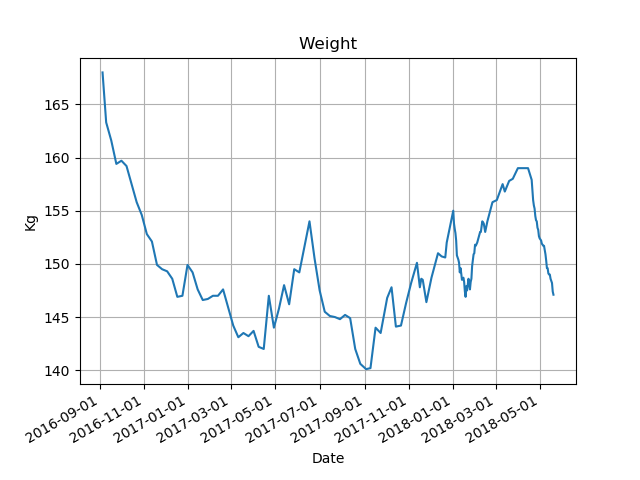
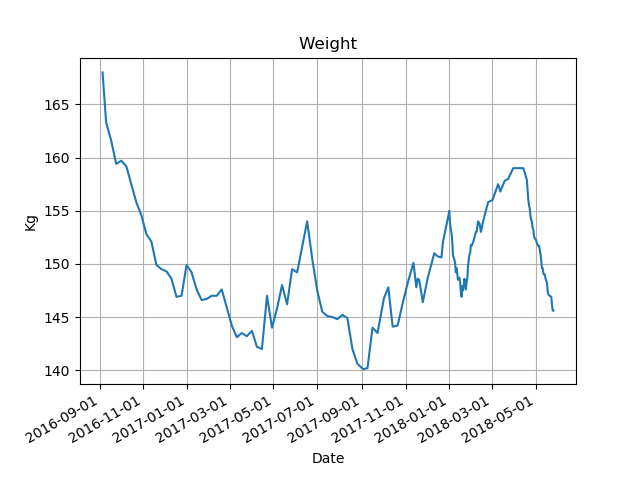
Week 21 update

diff --git a/index.html b/index.html
@@ -34,6 +34,38 @@
   </thead>
   <tbody>
     <tr>
+      <th>2018-05-26</th>
+      <td>145.6</td>
+      <td>0.0</td>
+      <td>-22.4</td>
+      <td>43.5</td>
+      <td>1.7</td>
+    </tr>
+    <tr>
+      <th>2018-05-25</th>
+      <td>145.6</td>
+      <td>-0.5</td>
+      <td>-22.4</td>
+      <td>43.5</td>
+      <td>1.7</td>
+    </tr>
+    <tr>
+      <th>2018-05-24</th>
+      <td>146.1</td>
+      <td>-0.8</td>
+      <td>-21.9</td>
+      <td>43.6</td>
+      <td>1.7</td>
+    </tr>
+    <tr>
+      <th>2018-05-23</th>
+      <td>146.9</td>
+      <td>-0.2</td>
+      <td>-21.1</td>
+      <td>43.9</td>
+      <td>1.8</td>
+    </tr>
+    <tr>
       <th>2018-05-19</th>
       <td>147.1</td>
       <td>-0.3</td>
